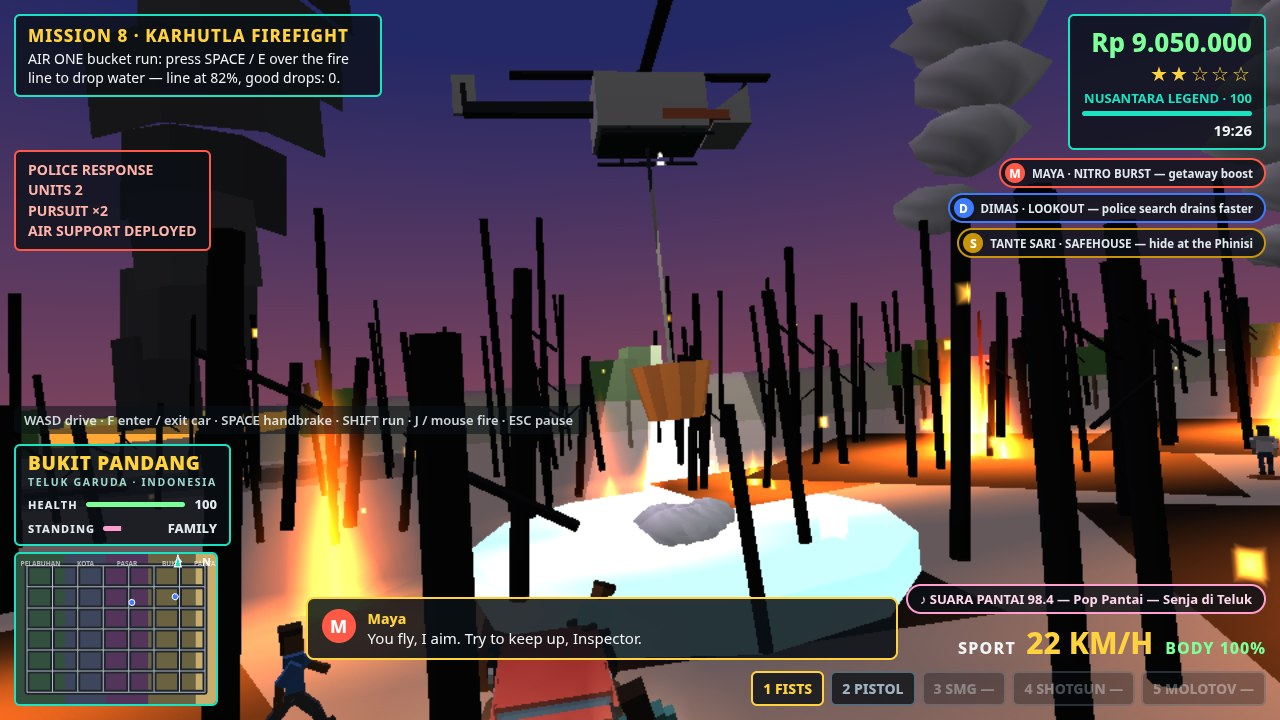
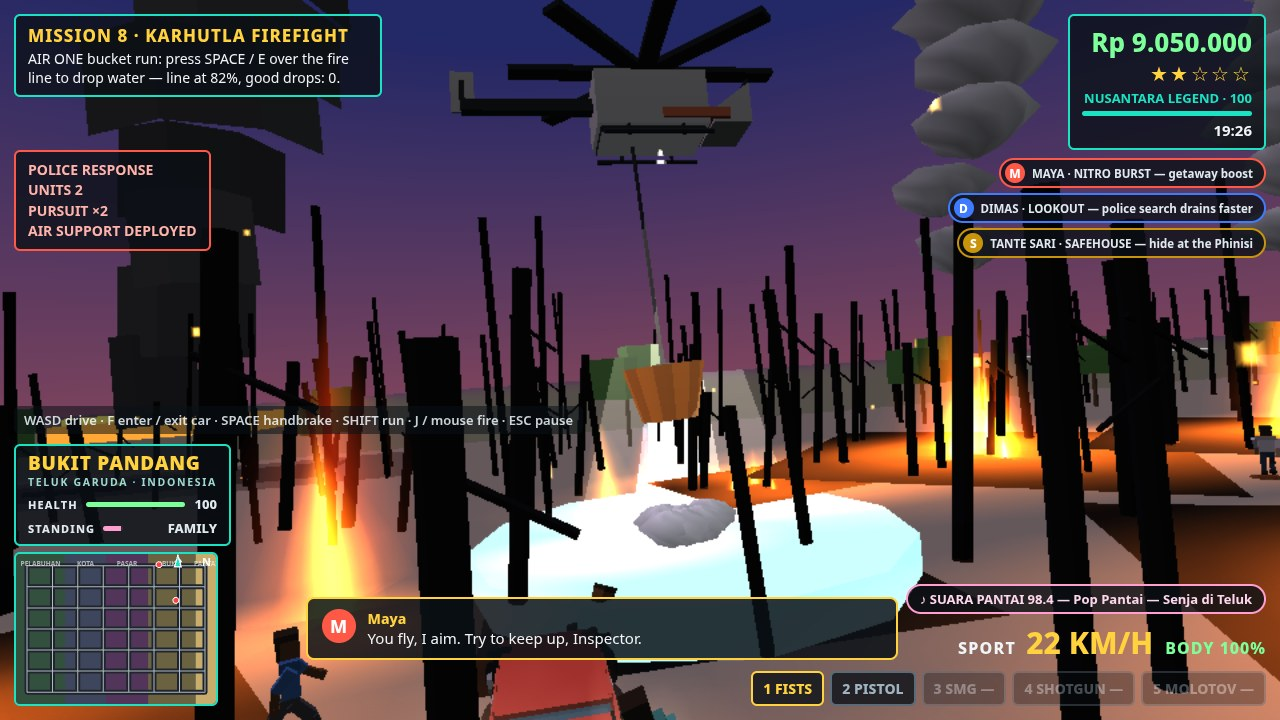
Micro-fix 3 comparator defects: heli underside HDR belly tone (hemisphere crush made slot-4 AIR ONE a black smear), roadblock officer fire gated to his block (detached officer tracer streaked through the protagonist in slot 4), thicker 4-blade crossed rotor (thin T-bar read), fresh captures

diff --git a/game/src/city3d.js b/game/src/city3d.js
@@ -241,11 +241,21 @@ function bakeCarInto(b, variant, colorHex) {
 }
 function bakeHeliInto(b, colorHex) {
   var col = colorHex || 0xe8ecf0, glass = 0x18222e, dark = 0x22282f;
-  b.box(col, { x: 0, y: 0, z: 0.3, w: 1.7, h: 1.55, d: 3.1, top: shadeRGB(hexRGB(col), 1.07) });
+  /* MICRO-FIX (defect 1): the hemisphere ambient term in gl.js gives
+     downward faces only 0.28x ambient, so the fuselage underside —
+     the face a low camera actually sees — crushed to a black smear
+     at range (slot-4 AIR ONE). The old flat-ambient shader rendered
+     it mid-grey. Bake the two underside faces (body bottom + belly
+     pan bottom) with an HDR base tone (x2.6) so they land back at
+     that grey read under the new lighting; every other face, and
+     every other mesh, is untouched. */
+  var colRGB = hexRGB(col);
+  var bellyTone = [colRGB[0] * 2.6, colRGB[1] * 2.6, colRGB[2] * 2.6];
+  b.box(col, { x: 0, y: 0, z: 0.3, w: 1.7, h: 1.55, d: 3.1, top: shadeRGB(hexRGB(col), 1.07), bottom: bellyTone });
   b.prism(col, { x: 0, y: -0.1, z: -1.95, w: 1.55, h: 1.15, d: 1.1, h2: 0.35 });
   b.panel(glass, { x: 0, y: 0.28, z: -2.42, w: 1.3, h: 0.78, d: 0.08, rx: -0.25 });
   b.panel(col, { x: 0, y: 0.28, z: -2.44, w: 0.09, h: 0.8, d: 0.06, rx: -0.25 }); // windscreen centre post
-  b.box(dark, { x: 0, y: -0.86, z: 0.3, w: 1.45, h: 0.22, d: 2.9 });              // dark belly pan (grounds the airframe)
+  b.box(dark, { x: 0, y: -0.86, z: 0.3, w: 1.45, h: 0.22, d: 2.9, bottom: bellyTone }); // dark belly pan (grounds the airframe)
   b.panel(0xff7847, { x: 0, y: -0.45, z: -0.9, w: 1.72, h: 0.3, d: 1.9 }); // coral cheatline
   b.box(dark, { x: 0, y: 0.12, z: 3.6, w: 0.34, h: 0.34, d: 3.6 });          // tail boom
   b.panel(col, { x: 0, y: 0.55, z: 5.35, w: 0.1, h: 1.15, d: 0.62 });        // tail fin
@@ -267,8 +277,15 @@ var CoralBakers = {
   heli: function (gl, colour) {
     var b = new Baker(); bakeHeliInto(b, colour);
     var rb = new Baker();
-    rb.panel(0x1c2126, { x: 0, y: 0, z: 0, w: 7.6, h: 0.07, d: 0.34 });
-    rb.panel(0x1c2126, { x: 0, y: 0, z: 0, w: 0.34, h: 0.07, d: 7.6 });
+    /* MICRO-FIX (defect 3): the old 0.07-thick / 0.34-wide blade pair
+       reads as a thin bar on a mast whenever the spin phase puts a
+       blade across the view (slot-1 capture). Thicker section
+       (0.16 x 0.52) plus a second pair crossed at 45 deg, so a
+       diagonal X-blade read survives at ANY rotor phase. */
+    rb.panel(0x1c2126, { x: 0, y: 0, z: 0, w: 7.6, h: 0.16, d: 0.52 });
+    rb.panel(0x1c2126, { x: 0, y: 0, z: 0, w: 0.52, h: 0.16, d: 7.6 });
+    rb.panel(0x1c2126, { x: 0, y: 0, z: 0, w: 7.6, h: 0.16, d: 0.52, ry: Math.PI / 4 });
+    rb.panel(0x1c2126, { x: 0, y: 0, z: 0, w: 7.6, h: 0.16, d: 0.52, ry: -Math.PI / 4 });
     rb.cylinder(0x333a42, { x: 0, y: 0, z: 0, r: 0.3, h: 0.16, seg: 8 });
     return { body: b.build(gl), rotor: rb.build(gl) };
   }

diff --git a/game/src/police3d.js b/game/src/police3d.js
@@ -543,7 +543,16 @@ var CoralPolice = (function () {
         off.pose = 'stand'; off.aimTarget = null;
       }
       officerFxTimer -= dt;
-      if (stars >= 3 && visible && p.mode === 'foot' && od < 45 && officerFxTimer <= 0) {
+      /* MICRO-FIX (defect 2): only draw the officer's fire while he
+         is actually holding position WITH his block. Shot staging
+         relocates the block CARS (e.g. onto the Balai Kota plaza)
+         without moving him; a detached officer stands far off-frame
+         — in the slot-4 capture, behind the camera — and his tracer
+         streaked through the protagonist as a stray vertical white
+         line. In live play he spawns ~9 m from his cars, well inside
+         this gate, so gameplay fire is unchanged. */
+      var odBlock = Math.hypot(off.x - block.cars[0].x, off.z - block.cars[0].z);
+      if (stars >= 3 && visible && p.mode === 'foot' && od < 45 && odBlock < 15 && officerFxTimer <= 0) {
         officerFxTimer = 0.65 + officerFxRng() * 0.35;
         if (window.CoralCombat && CoralCombat.spawnShot && window.CoralPeople && CoralPeople.gunTip) {
           var spx = (officerFxRng() - 0.5) * 0.7, spz = (officerFxRng() - 0.5) * 0.7;
